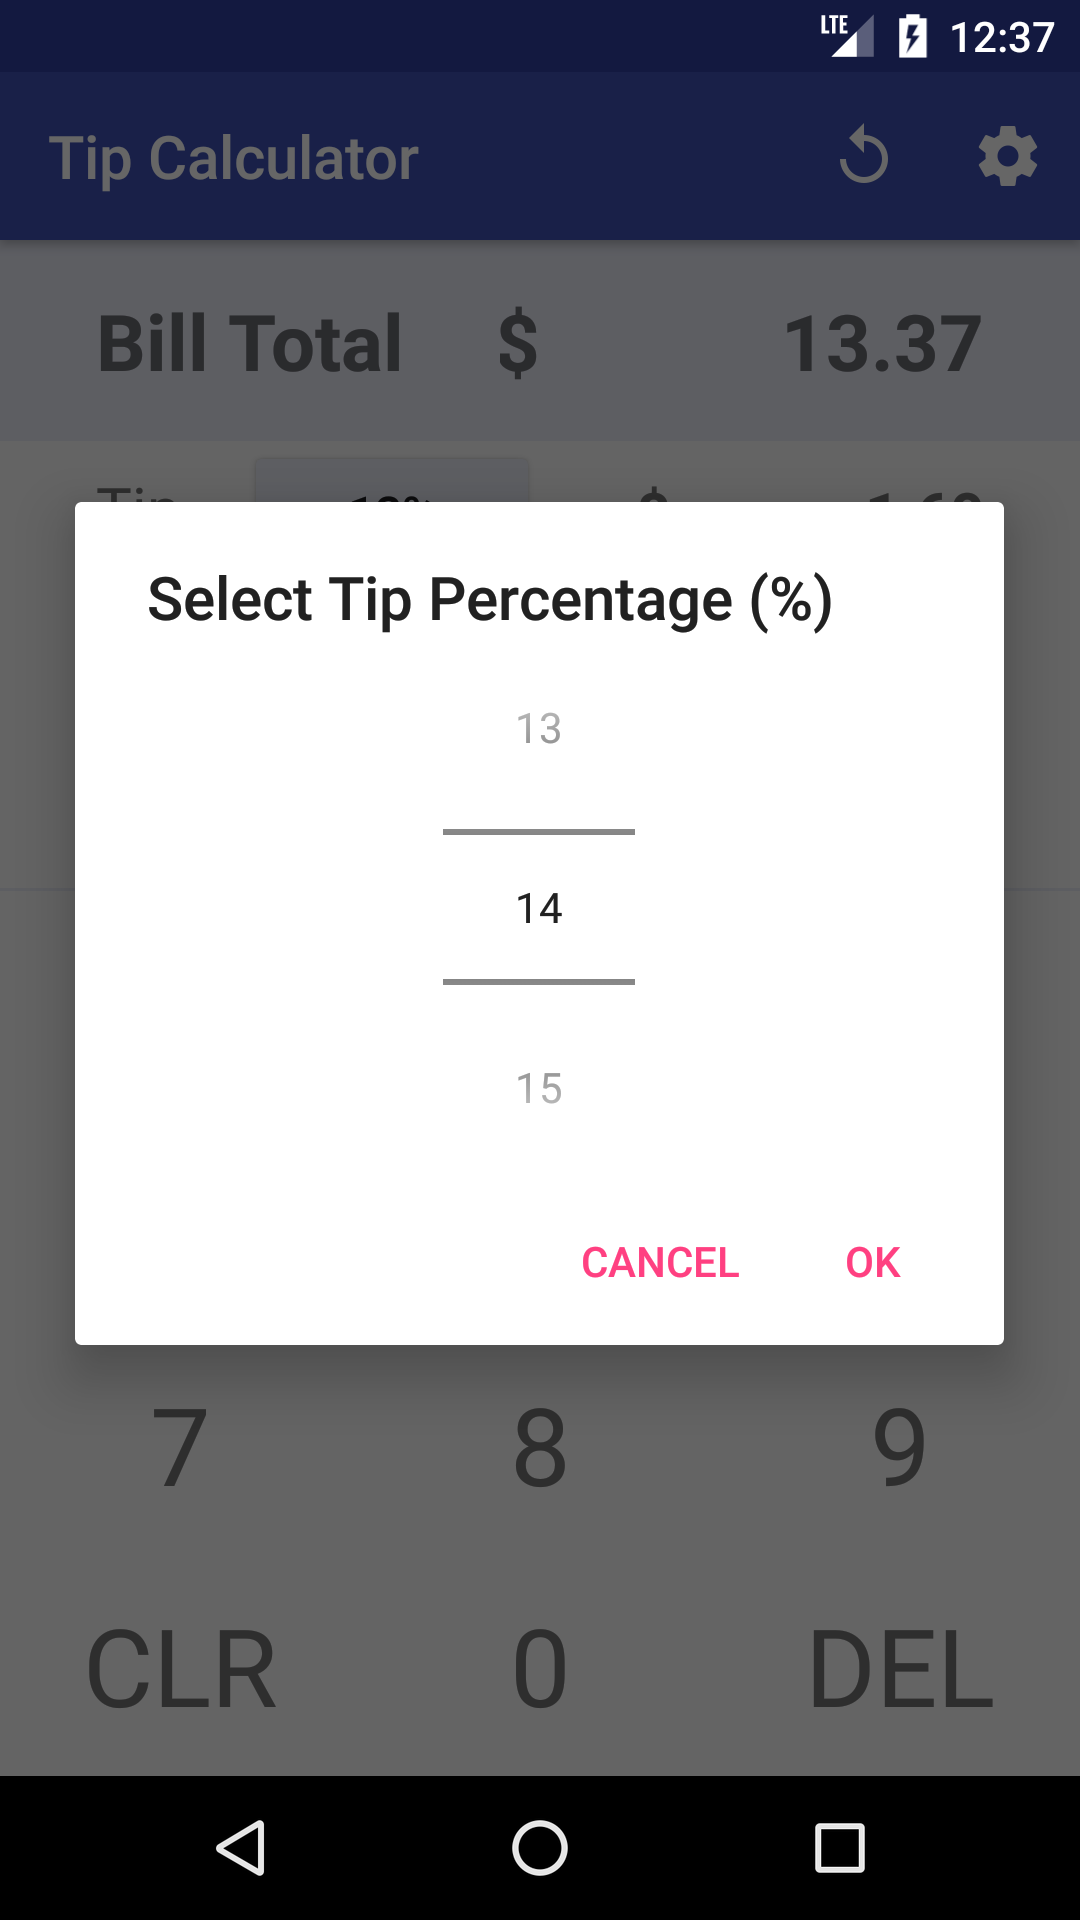
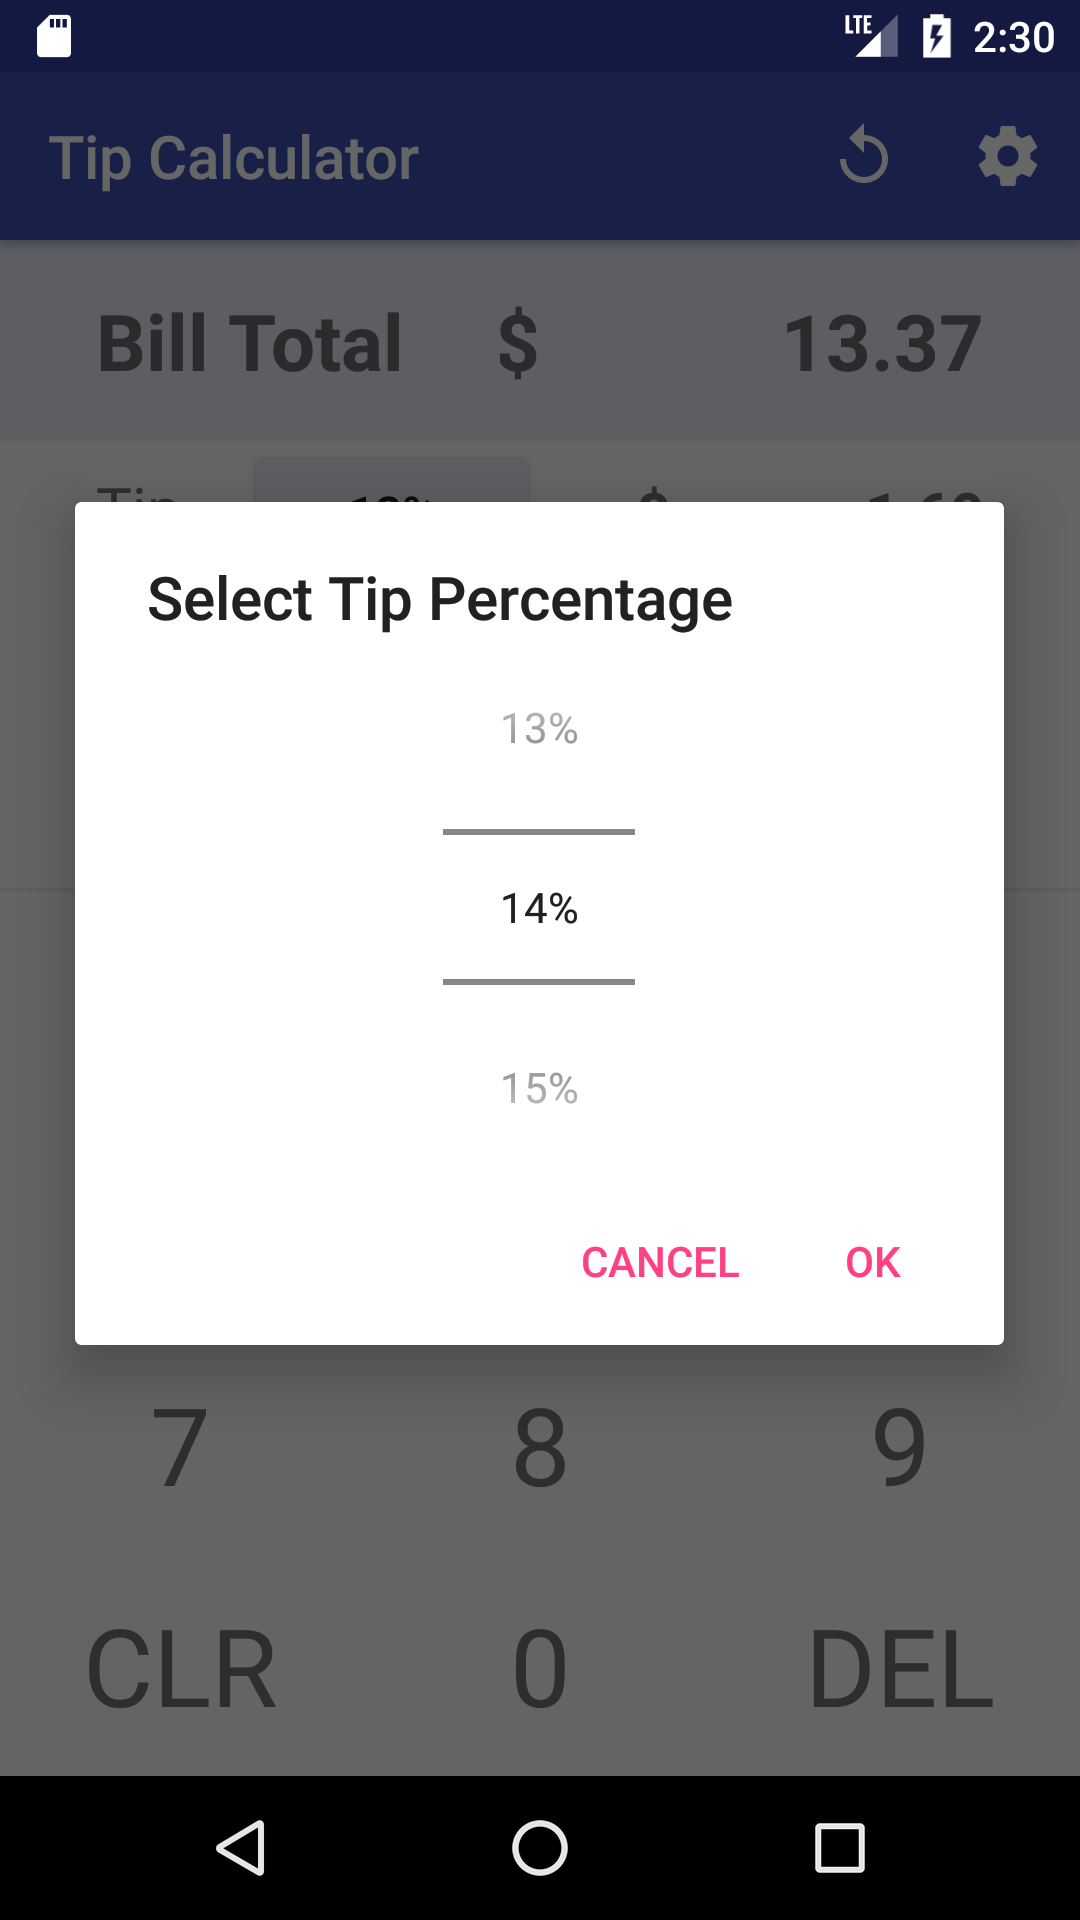
Bug fixed plus tip selection now showing with percentage sign
Fixed bug:
After reset button is pressed and values are reset to default, button text changes correctly but number picker value does not change.

diff --git a/app/src/main/java/me/nyim/tipcalculator/MainActivity.java b/app/src/main/java/me/nyim/tipcalculator/MainActivity.java
@@ -21,21 +21,19 @@ import java.text.NumberFormat;
 
 public class MainActivity extends AppCompatActivity {
 
-    private TextView bill_amount = null;
-    private TextView tip_amount = null;
-    private TextView total = null;
-    private TextView split = null;
-    
-    private Button tip_button = null;
-    private Button split_button = null;
-    private AlertDialog tip_alertDialog = null;
-    private AlertDialog split_alertDialog = null;
+    private TextView bill_amount, tip_amount, total, split = null;
 
-    private String amount;
-    private String tip_percent;
-    private String split_value;
-    private String default_tip;
-    private String default_split;
+    private Button tip_button, split_button = null;
+    private AlertDialog tip_alertDialog, split_alertDialog = null;
+    private NumberPicker tip_numberPicker, split_numberPicker = null;
+
+    private String amount, tip_percent, split_value, default_tip, default_split = "";
+    private int MIN_TIP = 0;
+    private int MAX_TIP = 100;
+    private int MIN_SPLIT = 1;
+    private int MAX_SPLIT = 30;
+    private int DEFAULT_TIP = 15;
+    private int DEFAULT_SPLIT = 2;
 
     private SharedPreferences pref;
 
@@ -51,8 +49,8 @@ public class MainActivity extends AppCompatActivity {
         setSupportActionBar(toolbar);
 
         pref = PreferenceManager.getDefaultSharedPreferences(this);
-        default_tip = String.valueOf(pref.getInt("default_tip", 15));
-        default_split = String.valueOf(pref.getInt("default_split", 2));
+        default_tip = String.valueOf(pref.getInt("default_tip", DEFAULT_TIP));
+        default_split = String.valueOf(pref.getInt("default_split", DEFAULT_SPLIT));
 
         tip_percent = default_tip;
         split_value = default_split;
@@ -91,6 +89,7 @@ public class MainActivity extends AppCompatActivity {
                 split_alertDialog.show();
             }
         });
+
 
         TextView one = (TextView) findViewById(R.id.one);
         TextView two = (TextView) findViewById(R.id.two);
@@ -150,14 +149,17 @@ public class MainActivity extends AppCompatActivity {
             return true;
         } else if (id == R.id.reset) {
             amount = "";
-            default_split = String.valueOf(pref.getInt("default_split", 2));
-            default_tip = String.valueOf(pref.getInt("default_tip", 15));
+            default_split = String.valueOf(pref.getInt("default_split", DEFAULT_SPLIT));
+            default_tip = String.valueOf(pref.getInt("default_tip", DEFAULT_TIP));
 
             tip_percent = default_tip;
             split_value = default_split;
 
             tip_button.setText(tip_percent.toString() + "%");
             split_button.setText(split_value.toString());
+
+            tip_numberPicker.setValue(Integer.parseInt(tip_percent));
+            split_numberPicker.setValue(Integer.parseInt(split_value));
 
             calc_amount();
             return true;
@@ -227,6 +229,7 @@ public class MainActivity extends AppCompatActivity {
     protected void onResume() {
         calc_amount();
         super.onResume();
+
     }
 
     private AlertDialog tip_dialog() {
@@ -237,12 +240,18 @@ public class MainActivity extends AppCompatActivity {
         d.setTitle(R.string.tip_dialog_msg);
         d.setView(dialogView);
 
-        final NumberPicker numberPicker = (NumberPicker) dialogView.findViewById(R.id.number_picker);
-        numberPicker.setMaxValue(100);
-        numberPicker.setMinValue(0);
-        numberPicker.setValue(Integer.parseInt(tip_percent));
-        numberPicker.setWrapSelectorWheel(false);
-        numberPicker.setOnValueChangedListener(new NumberPicker.OnValueChangeListener() {
+        String[] percentage = new String[MAX_TIP - MIN_TIP + 1];
+        for (int i = MIN_TIP; i <= MAX_TIP; i++) {
+            percentage[i] = String.valueOf(i) + "%";
+        }
+
+        tip_numberPicker = (NumberPicker) dialogView.findViewById(R.id.number_picker);
+        tip_numberPicker.setMaxValue(MAX_TIP);
+        tip_numberPicker.setMinValue(MIN_TIP);
+        tip_numberPicker.setDisplayedValues(percentage);
+        tip_numberPicker.setValue(Integer.parseInt(tip_percent));
+        tip_numberPicker.setWrapSelectorWheel(false);
+        tip_numberPicker.setOnValueChangedListener(new NumberPicker.OnValueChangeListener() {
             @Override
             public void onValueChange(NumberPicker picker, int oldVal, int newVal) {}
         });
@@ -250,7 +259,7 @@ public class MainActivity extends AppCompatActivity {
         d.setPositiveButton(R.string.ok, new DialogInterface.OnClickListener() {
             @Override
             public void onClick(DialogInterface dialog, int which) {
-                String val = String.valueOf(numberPicker.getValue());
+                String val = String.valueOf(tip_numberPicker.getValue());
                 tip_percent = val;
                 tip_button.setText(val + "%");
                 calc_amount();
@@ -259,7 +268,9 @@ public class MainActivity extends AppCompatActivity {
 
         d.setNegativeButton(R.string.cancel, new DialogInterface.OnClickListener() {
             @Override
-            public void onClick(DialogInterface dialog, int which) {}
+            public void onClick(DialogInterface dialog, int which) {
+                tip_numberPicker.setValue(Integer.parseInt(tip_percent));
+            }
         });
         AlertDialog alertDialog = d.create();
         return alertDialog;
@@ -273,12 +284,12 @@ public class MainActivity extends AppCompatActivity {
         d.setTitle(R.string.split_dialog_msg);
         d.setView(dialogView);
 
-        final NumberPicker numberPicker = (NumberPicker) dialogView.findViewById(R.id.number_picker);
-        numberPicker.setMaxValue(30);
-        numberPicker.setMinValue(1);
-        numberPicker.setValue(Integer.parseInt(split_value));
-        numberPicker.setWrapSelectorWheel(false);
-        numberPicker.setOnValueChangedListener(new NumberPicker.OnValueChangeListener() {
+        split_numberPicker = (NumberPicker) dialogView.findViewById(R.id.number_picker);
+        split_numberPicker.setMaxValue(MAX_SPLIT);
+        split_numberPicker.setMinValue(MIN_SPLIT);
+        split_numberPicker.setValue(Integer.parseInt(split_value));
+        split_numberPicker.setWrapSelectorWheel(false);
+        split_numberPicker.setOnValueChangedListener(new NumberPicker.OnValueChangeListener() {
             @Override
             public void onValueChange(NumberPicker picker, int oldVal, int newVal) {}
         });
@@ -286,7 +297,7 @@ public class MainActivity extends AppCompatActivity {
         d.setPositiveButton(R.string.ok, new DialogInterface.OnClickListener() {
             @Override
             public void onClick(DialogInterface dialog, int which) {
-                String val = String.valueOf(numberPicker.getValue());
+                String val = String.valueOf(split_numberPicker.getValue());
                 split_value = val;
                 split_button.setText(val);
                 calc_amount();
@@ -295,7 +306,9 @@ public class MainActivity extends AppCompatActivity {
 
         d.setNegativeButton(R.string.cancel, new DialogInterface.OnClickListener() {
             @Override
-            public void onClick(DialogInterface dialog, int which) {}
+            public void onClick(DialogInterface dialog, int which) {
+                split_numberPicker.setValue(Integer.parseInt(split_value));
+            }
         });
         AlertDialog alertDialog = d.create();
         return alertDialog;

diff --git a/app/src/main/java/me/nyim/tipcalculator/NumberPickerPreference.java b/app/src/main/java/me/nyim/tipcalculator/NumberPickerPreference.java
@@ -12,11 +12,12 @@ import android.widget.NumberPicker;
 
 public class NumberPickerPreference extends DialogPreference {
 
-        public int MAX_VALUE = 100;
-        public int MIN_VALUE = 1;
+        private int MAX_VALUE = 100;
+        private int MIN_VALUE = 1;
+        private boolean PERCENTAGE = false;
 
         // enable or disable the 'circular behavior'
-        public static final boolean WRAP_SELECTOR_WHEEL = false;
+        private static final boolean WRAP_SELECTOR_WHEEL = false;
 
         private NumberPicker picker;
         private int value;
@@ -25,12 +26,14 @@ public class NumberPickerPreference extends DialogPreference {
             super(context, attrs);
             MAX_VALUE = attrs.getAttributeIntValue(null, "max", 100);
             MIN_VALUE = attrs.getAttributeIntValue(null, "min", 1);
+            PERCENTAGE = attrs.getAttributeBooleanValue(null, "percentage", false);
         }
 
         public NumberPickerPreference(Context context, AttributeSet attrs, int defStyleAttr) {
             super(context, attrs, defStyleAttr);
             MAX_VALUE = attrs.getAttributeIntValue(null, "max", 100);
             MIN_VALUE = attrs.getAttributeIntValue(null, "min", 1);
+            PERCENTAGE = attrs.getAttributeBooleanValue(null, "percentage", false);
         }
 
         @Override
@@ -51,8 +54,18 @@ public class NumberPickerPreference extends DialogPreference {
         @Override
         protected void onBindDialogView(View view) {
             super.onBindDialogView(view);
+
             picker.setMinValue(MIN_VALUE);
             picker.setMaxValue(MAX_VALUE);
+
+            if (PERCENTAGE) {
+                String[] percentage = new String[MAX_VALUE - MIN_VALUE + 1];
+                for (int i = MIN_VALUE; i <= MAX_VALUE; i++) {
+                    percentage[i] = String.valueOf(i) + "%";
+                }
+                picker.setDisplayedValues(percentage);
+            }
+
             picker.setWrapSelectorWheel(WRAP_SELECTOR_WHEEL);
             picker.setValue(getValue());
         }
@@ -81,7 +94,10 @@ public class NumberPickerPreference extends DialogPreference {
         public void setValue(int value) {
             this.value = value;
             persistInt(this.value);
-            this.setSummary(String.valueOf(value));
+
+            String summary = String.valueOf(value);
+            if (PERCENTAGE) { summary += "%"; }
+            this.setSummary(String.valueOf(summary));
         }
 
         public int getValue() {
